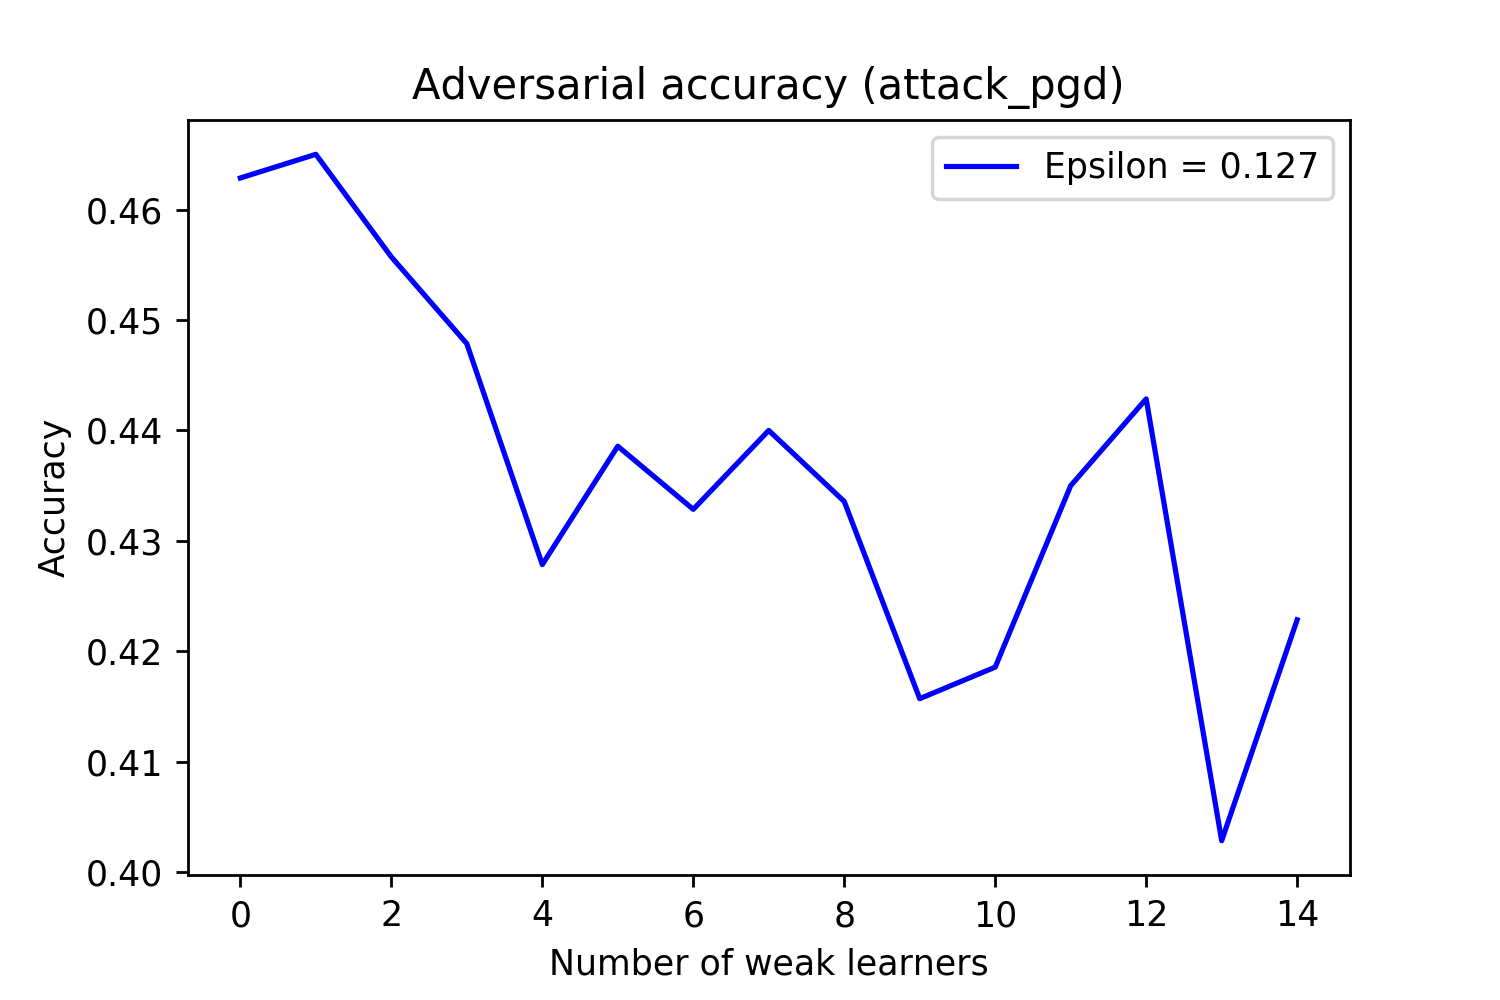
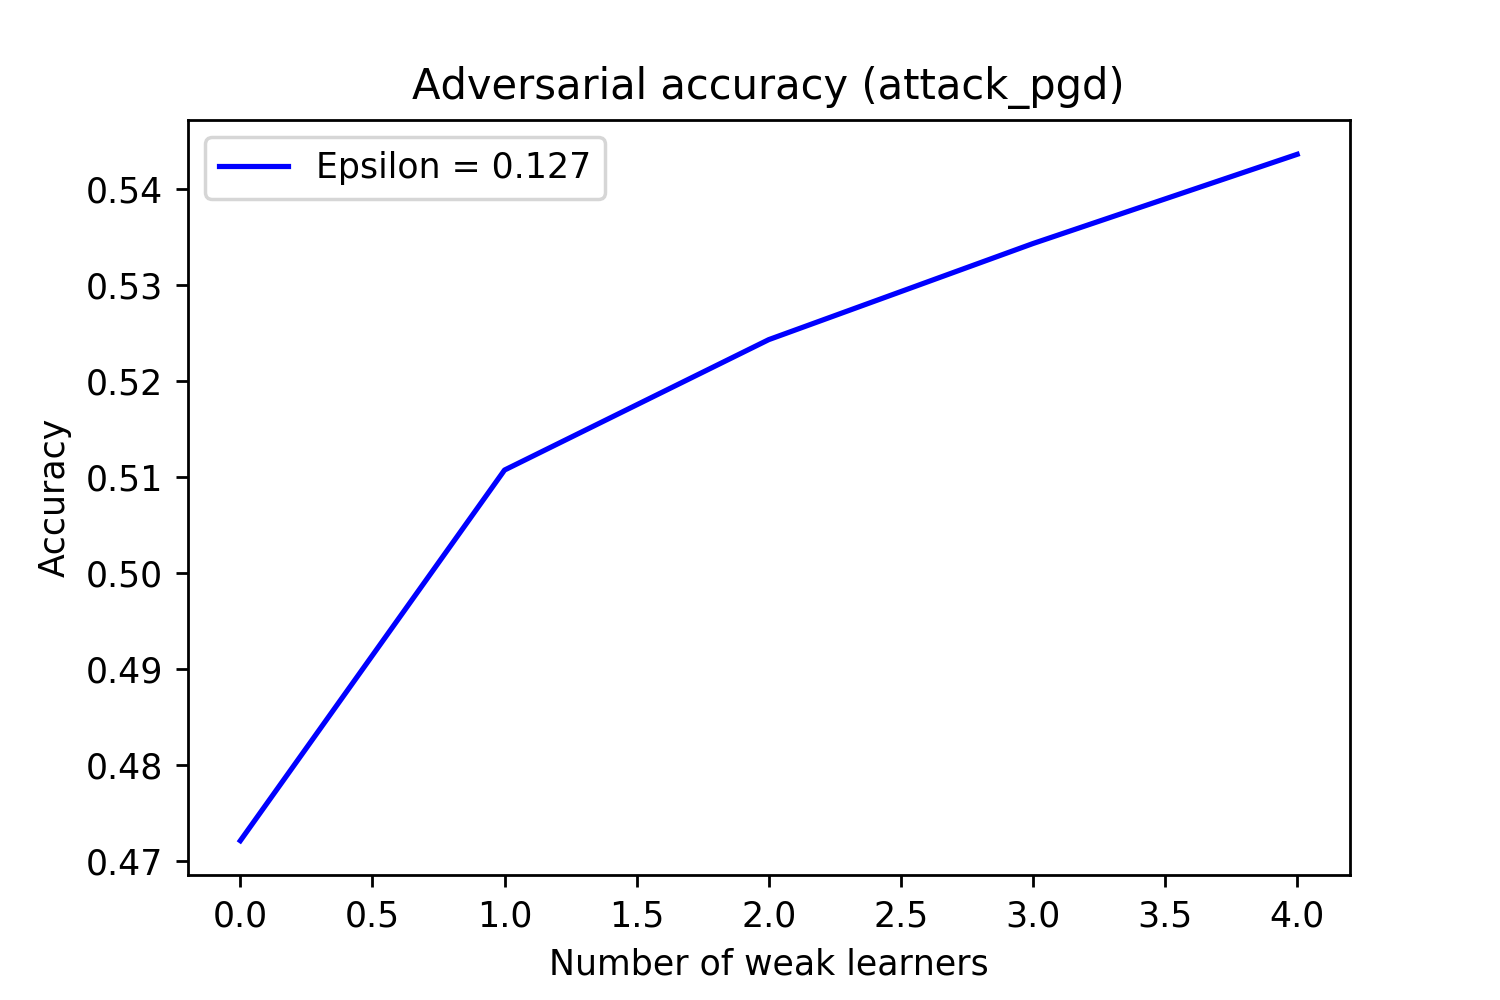
add new results

diff --git a/notes-todo.md b/notes-todo.md
@@ -90,3 +90,9 @@ for each experiment and use a prefix)
 - main insight: the non-adversarial nets increase accuracy more monotonically than adv
 - IDEA: make an ensemble which starts out with some adversarially trained nets then goes to non adv nets
 - to hit neurips deadline we should start implementing shafahi and regular pgd training
+
+# April 13
+- Notes from meeting: more random restarts (instead of just 1), smaller architecture for weak learners
+- Schapire update: Use targeted attacks, or treat a perturbation to an incorrect label as a perturbation to all other labels (pessimistc approach)
+- Testing the model w/ pgd and more random restarts
+- Wrote code for the pessimistic approach, and wrote a unit test for it in testing_notebook.ipynb (to be run at a later time)
